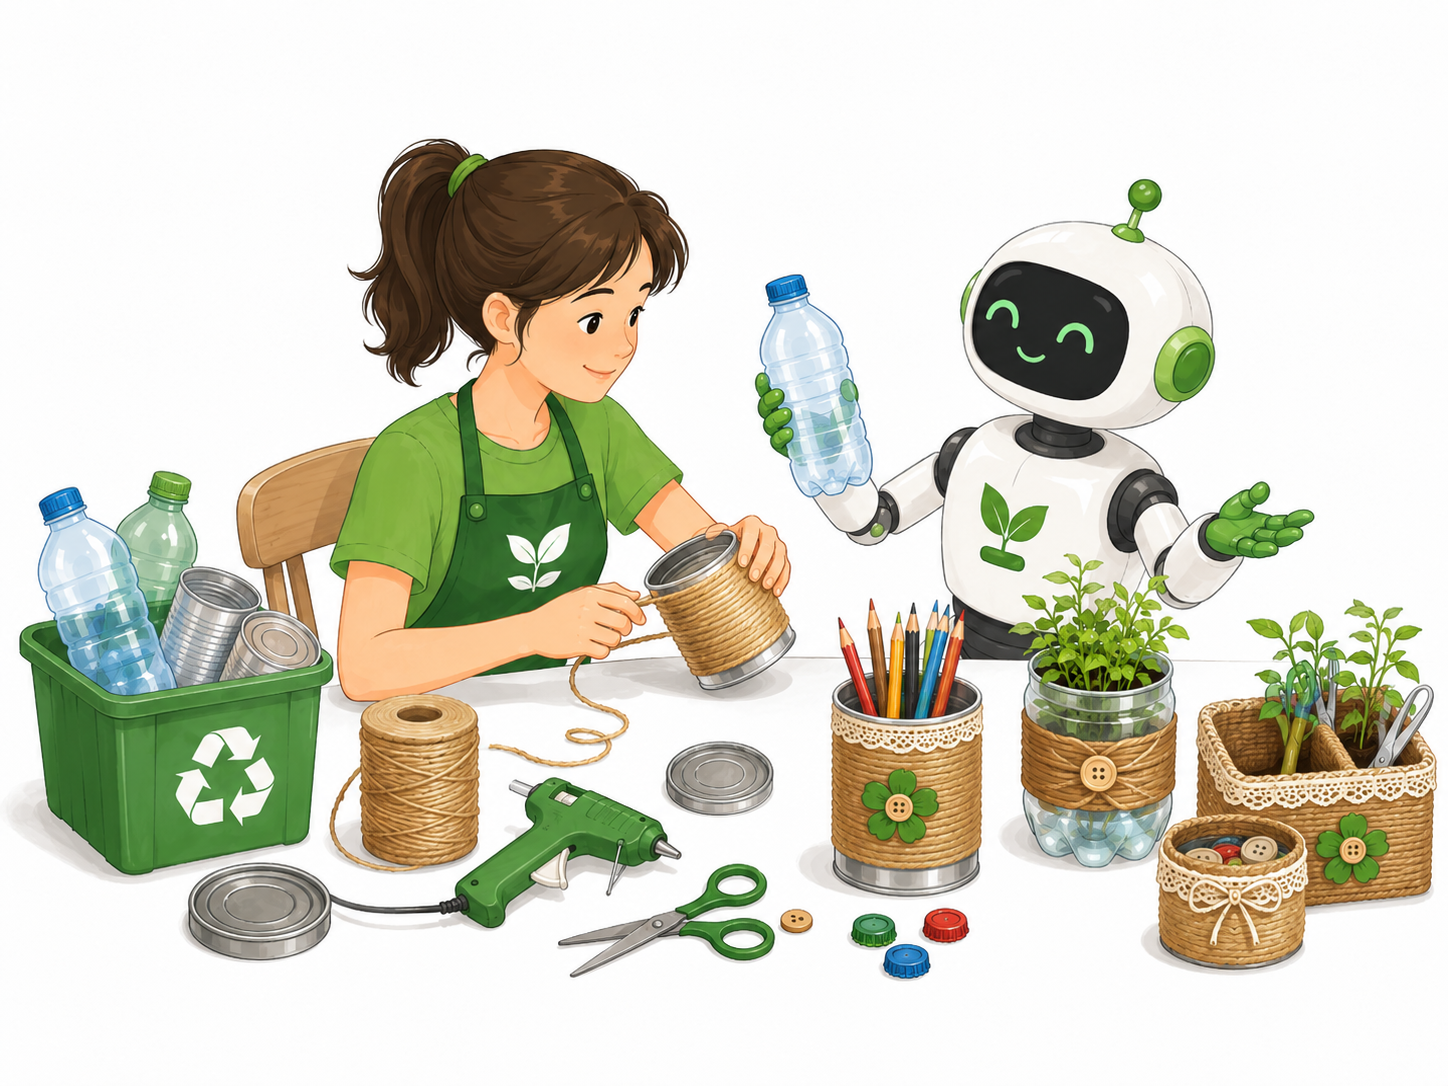
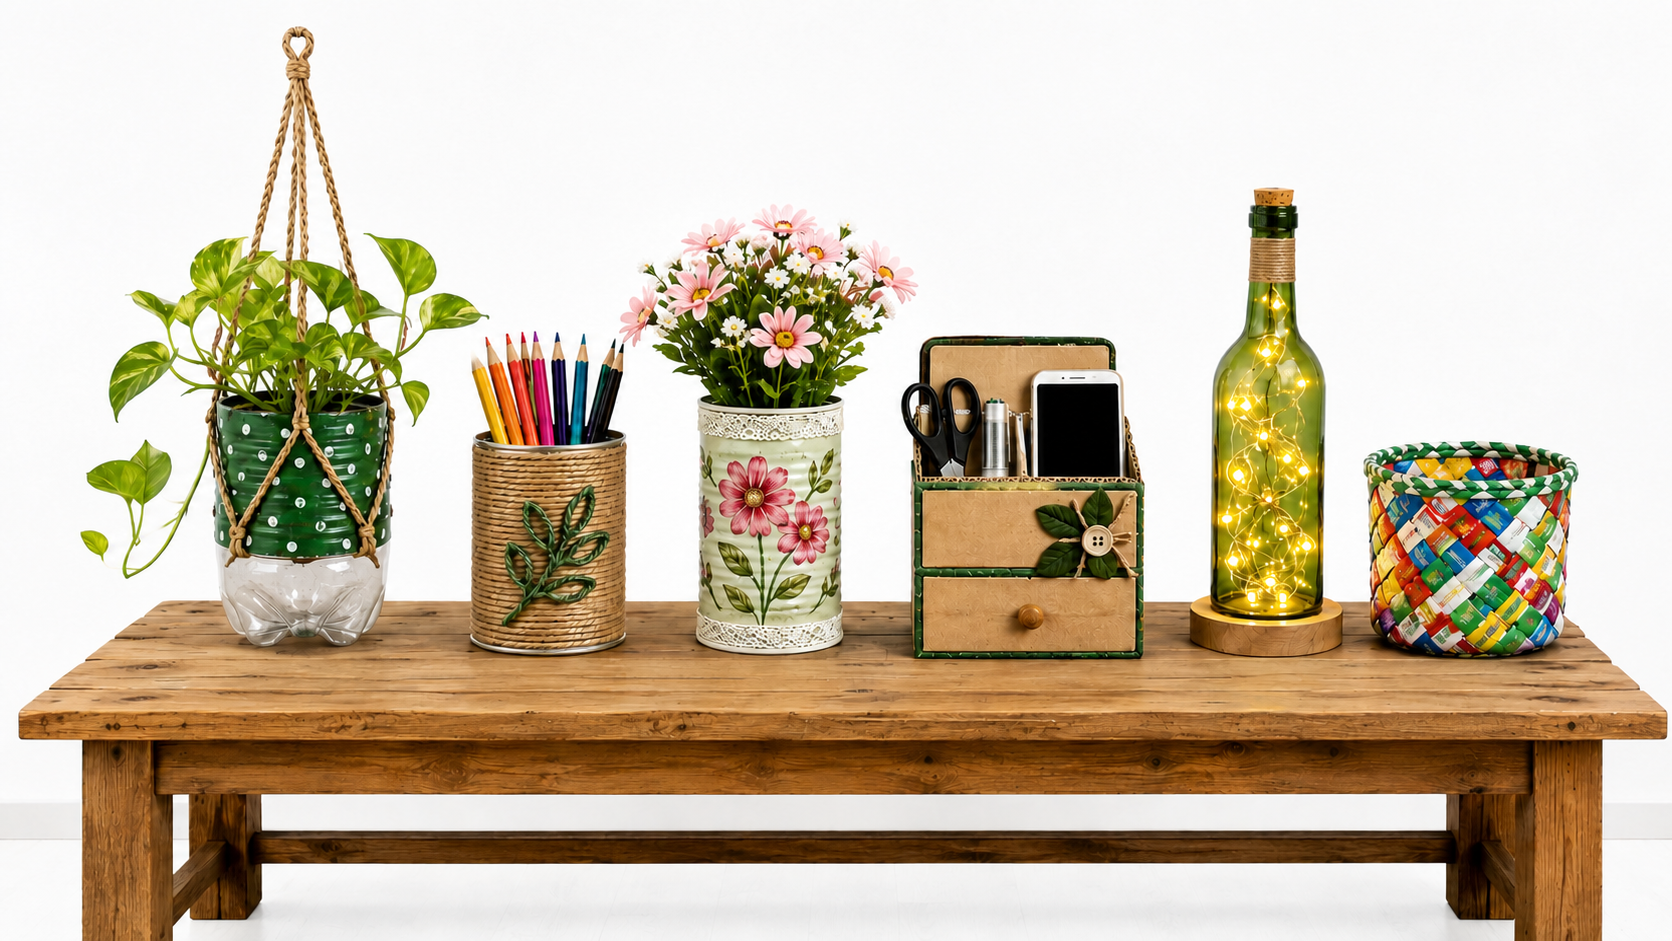
feat(ui): editorial redesign of product detail; refine upload screen artwork

diff --git a/app/product/[id]/index.tsx b/app/product/[id]/index.tsx
@@ -1,5 +1,5 @@
 import React, { useEffect, useState } from "react";
-import { Alert, Share, View, Text, ScrollView, Image, TouchableOpacity } from "react-native";
+import { Alert, Share, View, Text, ScrollView, Image, TouchableOpacity, useWindowDimensions } from "react-native";
 import { useLocalSearchParams, useRouter } from "expo-router";
 import { Header, Button, Card, Badge, LoadingSpinner, StarRating } from "../../../src/components/ui";
 import { useProductData } from "../../../src/hooks/useProductData";
@@ -20,7 +20,7 @@ import {
   ArrowRight,
   TrendingUp,
 } from "lucide-react-native";
-import { colors, gradients, gradientStyle, screenSheetStyle, shadows } from "../../../src/theme";
+import { colors, shadows } from "../../../src/theme";
 
 const toolIcons: Record<string, React.ComponentType<{ size?: number; color?: string }>> = {
   botol: Package,
@@ -45,6 +45,7 @@ function getToolIcon(name: string) {
 export default function ProductDetailScreen() {
   const { id } = useLocalSearchParams<{ id: string }>();
   const router = useRouter();
+  const { height: screenHeight } = useWindowDimensions();
   const { product, tutData, priceData, loading, error, refetch } = useProductData(id);
 
   const [completions, setCompletions] = useState<SkillCompletionsSummary | null>(null);
@@ -101,15 +102,27 @@ export default function ProductDetailScreen() {
   );
 
   return (
-    <View style={{ flex: 1, backgroundColor: colors.forest900, ...gradientStyle(gradients.home) }}>
-      <Header title="Detail Produk" onBack={() => safeBack(router)} rightElement={headerRight} />
-
+    <View style={{ flex: 1, backgroundColor: "#F8F8F2" }}>
       <ScrollView
         contentInsetAdjustmentBehavior="automatic"
         showsVerticalScrollIndicator={false}
-        style={[screenSheetStyle, gradientStyle(gradients.contentSheet)]}
-        contentContainerStyle={{ paddingHorizontal: 18, paddingTop: 18, paddingBottom: 46 }}
+        style={{ flex: 1, backgroundColor: "transparent" }}
+        contentContainerStyle={{ minHeight: screenHeight }}
       >
+        <Image
+          source={require("../../../assets/images/upload-screen-bg.png")}
+          resizeMode="cover"
+          accessibilityIgnoresInvertColors
+          style={{ position: "absolute", top: -128, left: 0, width: "100%", height: screenHeight }}
+        />
+        <Header
+          title="Detail Produk"
+          onBack={() => safeBack(router)}
+          rightElement={headerRight}
+          transparent
+          contentColor={colors.white}
+        />
+        <View style={{ paddingHorizontal: 18, paddingTop: 32, paddingBottom: 46 }}>
         <Card className="rounded-[28px] overflow-hidden p-0 border-0 mb-6" style={{ boxShadow: shadows.floating }}>
           <Image source={{ uri: product.thumbnailUri }} className="w-full h-[296px]" resizeMode="cover" />
         </Card>
@@ -165,17 +178,17 @@ export default function ProductDetailScreen() {
                 padding: 15,
                 borderRadius: 20,
                 borderCurve: "continuous",
-                backgroundColor: idx === 2 ? colors.forest900 : colors.surface,
-                borderWidth: idx === 2 ? 0 : 1,
+                backgroundColor: colors.surface,
+                borderWidth: 1,
                 borderColor: colors.mist100,
-                boxShadow: idx === 2 ? shadows.card : undefined,
+                boxShadow: "0 8px 24px rgba(31,63,42,0.09)",
               }}
             >
               <View className="flex-row items-center justify-between">
-                <Text className="text-[11px]" style={{ color: idx === 2 ? "rgba(255,255,255,0.64)" : colors.ink600 }}>{row.label}</Text>
-                {idx === 2 ? <TrendingUp size={15} color={colors.lime300} /> : null}
+                <Text className="text-[11px]" style={{ color: colors.ink600 }}>{row.label}</Text>
+                {idx === 2 ? <TrendingUp size={15} color={colors.forest700} /> : null}
               </View>
-              <Text selectable className="text-[17px] font-extrabold" style={{ color: idx === 2 ? colors.white : colors.ink900, fontVariant: ["tabular-nums"], letterSpacing: -0.4 }}>{row.value}</Text>
+              <Text selectable className="text-[17px] font-extrabold" style={{ color: colors.ink900, fontVariant: ["tabular-nums"], letterSpacing: -0.4 }}>{row.value}</Text>
             </View>
           ))}
         </View>
@@ -245,6 +258,7 @@ export default function ProductDetailScreen() {
           variant="primary"
           icon={<ArrowRight size={19} color={colors.white} />}
         />
+        </View>
       </ScrollView>
     </View>
   );

diff --git a/app/scan/upload.tsx b/app/scan/upload.tsx
@@ -110,7 +110,7 @@ export default function UploadScreen() {
   };
 
   return (
-    <View style={{ flex: 1, backgroundColor: "#F8F8F2" }}>
+    <View style={{ flex: 1, backgroundColor: "#FFFFFF" }}>
       <ScrollView
         contentInsetAdjustmentBehavior="automatic"
         showsVerticalScrollIndicator={false}
@@ -128,7 +128,28 @@ export default function UploadScreen() {
             source={require("../../assets/images/upload-screen-bottom-bg-062031.png")}
             resizeMode="contain"
             accessibilityIgnoresInvertColors
-            style={{ position: "absolute", left: 0, bottom: 0, width: "100%", height: screenWidth * (3 / 4) }}
+            style={{
+              position: "absolute",
+              left: "3%",
+              bottom: 0,
+              width: "94%",
+              height: screenWidth * 0.94 * (3 / 4),
+              transform: [{ translateY: 32 }],
+            }}
+          />
+        ) : !analyzeCall.loading ? (
+          <Image
+            source={require("../../assets/images/upload-screen-bottom-bg.png")}
+            resizeMode="contain"
+            accessibilityIgnoresInvertColors
+            style={{
+              position: "absolute",
+              left: "3%",
+              bottom: 0,
+              width: "94%",
+              height: screenWidth * 0.94 * (941 / 1672),
+              transform: [{ translateY: 40 }],
+            }}
           />
         ) : null}
         <View
@@ -172,7 +193,7 @@ export default function UploadScreen() {
         </View>
 
         {analyzeCall.loading ? (
-          <View style={[screenSheetStyle, { minHeight: Math.max(screenHeight - 100, 620), backgroundColor: "#F8F8F2" }]}>
+          <View style={[screenSheetStyle, { minHeight: Math.max(screenHeight - 100, 620), backgroundColor: "#FFFFFF" }]}>
           <AnalysisLoadingView photoUri={image} />
           </View>
         ) : (
@@ -190,12 +211,12 @@ export default function UploadScreen() {
                   letterSpacing: -0.45,
                 }}
               >
-                Mulai dari satu foto
+                Pilih foto sampah anorganik
               </Text>
             </View>
             <Text style={{ color: colors.ink600, fontFamily: "Manrope_400Regular", fontSize: 12, lineHeight: 18, textAlign: "center" }}>
-              Pastikan material terlihat jelas agar
-              {"\n"}hasil analisis lebih akurat.
+              Pastikan objek terlihat jelas agar
+              {"\n"}hasil pemindaian lebih akurat.
             </Text>
           </View>
 
